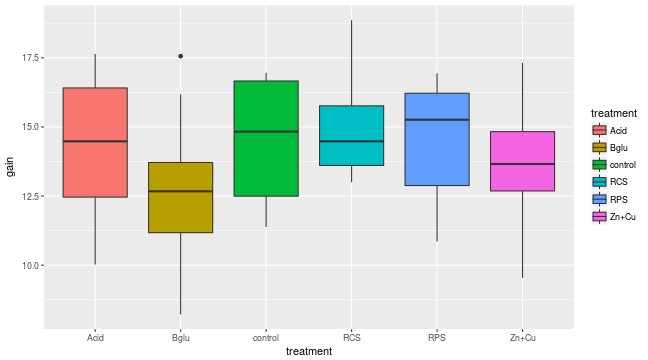
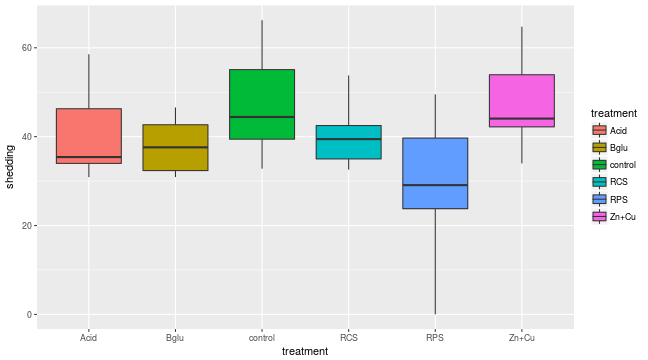
fixed typos

diff --git a/01-r-intro/knitr/2-MotivatingExample.html b/01-r-intro/knitr/2-MotivatingExample.html
@@ -78,8 +78,7 @@ Lets use R to look at the top few rows of the *Salmonella* shedding data set. Fi
 
 
 ```r
-shed &lt;- read_csv("../data/daily_shedding.csv")
-  #read_csv("http://heike.github.io/rwrks/01-r-intro/data/daily_shedding.csv")
+shed &lt;- read_csv("http://heike.github.io/rwrks/01-r-intro/data/daily_shedding.csv")
 ```
 
 Now, we use the `head` function to look at the first 6 rows of the data:
@@ -368,7 +367,7 @@ We could compare the cumulative shedding values of each treatment group with a s
 
 ```r
 ggplot(final_shed) + 
-  geom_boxplot( aes(treatment, gain, fill = treatment))
+  geom_boxplot( aes(treatment, shedding, fill = treatment))
 ```
 
 ![](2-MotivatingExample_files/figure-html/unnamed-chunk-17-1.png)&lt;!-- --&gt;
